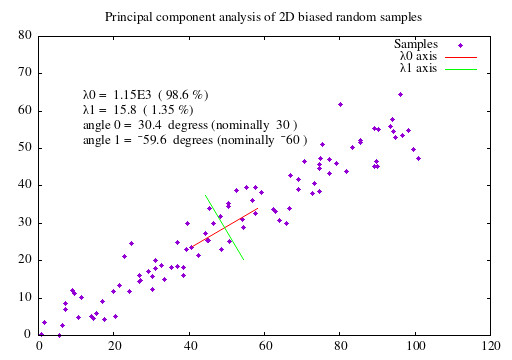
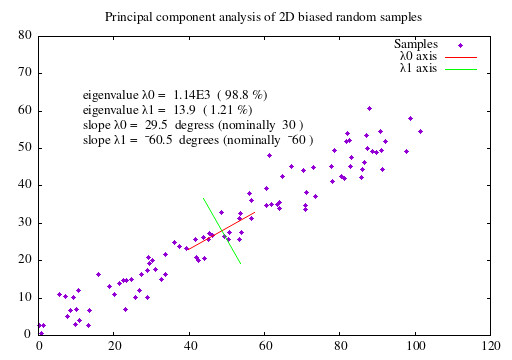
update

diff --git a/README.md b/README.md
@@ -69,6 +69,27 @@ It's handy to create named lambdas for the mtx opertions.  The ones I use are:
 <li>print  ← {⍺ mtx['p'] ⍵}</li>
 </ul>
 
+cov and cross are both ambivalent, but there's no apparent way to create
+ambivalent lambdas, so I also use:
+
+<pre>
+z←l cross r
+→(0≠⎕nc 'l')/Dyadic
+z←mtx['c'] r
+→0
+Dyadic:
+z←l mtx['c'] r
+</pre>
+
+<pre>
+z←l cov r
+→(0≠⎕nc 'l')/Dyadic
+z←mtx['C'] r
+→0
+Dyadic:
+z←l mtx['C'] r
+</pre>
+
 ## Details
 
 ### Monadic
@@ -165,8 +186,8 @@ For vector or matrix arguments, returns a value of the same shape such that
 >norm 2 3⍴⍳6
 
 <pre>
-0.105 0.21  0.314
-0.419 0.524 0.629
+0     0.135 0.27
+0.405 0.539 0.674
 </pre>
 
 >+/,(norm 2 3⍴⍳6)*2
@@ -215,11 +236,11 @@ length.  The function returns a complex scalar value representing the angle
 between the vectors.  (Frankly, I have no idea what it means if the result has
 a non-zero imaginary component...)
 
->r2d (1 0) angle (1 1)
+>r2d 1 0 angle 1 1
 
 45.0
 
->r2d (1 0 0) angle 1 1 1
+>r2d 1 0 0 angle 1 1 1
 
 54.7
 
@@ -246,42 +267,6 @@ Returns a homogeneous matrix of the given translation and rotation.
  1     2      3     1
 </pre>
 
-### Ambivalent
-
-The direct invocation of these functions, mtx['c'] and mtx['C'] respectively,
-are ambivalent, but there's no way I could find to make named lambdas
-ambivalent.  Accordingly, I've suggested two lambdas for each of those
-functions:
-<br/>
-
-| lambda       |   function       |                     
-| :----------- | :--------------: |
-| crossd       | ⍺ mtx['c'] ⍵ |  
-| crossm       | &nbsp; mtx['c'] ⍵ | 
-| covd         | ⍺ mtx['C'] ⍵ |  
-| crovm        | &nbsp; mtx['C'] ⍵ |
-
-Or, alternatively:
-
-<pre>
-z←l cross r
-→(0≠⎕nc 'l')/Dyadic
-z←mtx['c'] r
-→0
-Dyadic:
-z←l mtx['c'] r
-</pre>
-
-<pre>
-z←l cov r
-→(0≠⎕nc 'l')/Dyadic
-z←mtx['C'] r
-→0
-Dyadic:
-z←l mtx['C'] r
-</pre>
-
-
 #### Cross product
 
 In dynadic form, both arguments must be rank 1 real or complex vectors and
@@ -297,7 +282,7 @@ shapes [2 3] or [6 7].  mtx, however, doesn't check this and will happily
 give you a result in any dimensionality and leave it your imagination what
 it may mean.
 
->(1 2 3) crossd 4 5 6
+>1 2 3 crossd 4 5 6
 
 ¯3 6 ¯3
 
@@ -374,12 +359,12 @@ sample vectors:
 </pre>
 
 A typical graphical example using a two-variable system of 100 randomised
-samples each results in eigenvalues of [1030.44j0 17.6173j0] and eigenvectors
+samples each results in eigenvalues of [1142.1j0 13.9427j0] and eigenvectors
 of:
 
 <pre>
-   0.902754    0.430156 
-  -0.430156    0.902754
+   0.870314    0.492497 
+  -0.492497    0.870314
 </pre>
 
 as represented in:
@@ -388,7 +373,7 @@ as represented in:
 
 Note that
 
->r2d (0.902754 0.430156) angle (¯0.430156 0.902754)
+>r2d (0.870314    0.492497) angle (¯0.492497    0.870314)
 
 90
 
@@ -409,52 +394,41 @@ xa←(+/xb)÷⍴xb
 ya←(+/yb)÷⍴yb
 av←xa,ya
 d←2 c⍴xb,yb
-x←(⍉2 c⍴d) print 'pca.data'
+⊣(⍉2 c⍴d) print 'pca.data'
 co←covm d
 el←eval co
 ec←20×evec co
 
-x←'eigenvectors' print 'pcaeigensystem.txt'
-x←(ec÷20) print '>pcaeigensystem.txt'
-x←'eigenvalues' print '>pcaeigensystem.txt'
-x←el print '>pcaeigensystem.txt'
+⊣'eigenvectors' print 'pcaeigensystem.txt'
+⊣(ec÷20) print '>pcaeigensystem.txt'
+⊣'eigenvalues' print '>pcaeigensystem.txt'
+⊣el print '>pcaeigensystem.txt'
 
 xa← 100×(1↑el)÷+/el
 xb← 100×(¯1↑el)÷+/el
 
+m0←atand ÷/⌽1 2↑ec
+m1←atand ÷/⌽¯1 2↑ec
+
 h←'w' ⎕fio[3] 'pcalabels.gp'   ⍝ open
 
-s←⍕'set label "λ0 = ', (1↑el), ' (', xa, '%)" at graph .1,.8'
-x←'%s' s ⎕fio[22] h  ⍝ fwrite
-x←⎕fio[16] h ⍝ flush
-x←10⎕fio[42] h     ⍝ newline
-⍝x←⎕fio[16] h ⍝ flush
+s←⍕"set label \"eigenvalue λ0 = ", (1↑el), " (", xa, "%)\" at graph .1,.8\n"
+⊣'%s' s ⎕fio[22] h  ⍝ fwrite
 
-s←⍕'set label "λ1 = ', (¯1↑el), ' (', xb, '%)" at graph .1,.75'
-x←'%s' s ⎕fio[22] h  ⍝ fwrite
-x←⎕fio[16] h ⍝ flush
-x←10⎕fio[42] h     ⍝ newline
-⍝x←⎕fio[16] h ⍝ flush
+s←⍕"set label \"eigenvalue λ1 = ", (¯1↑el), " (", xb, "%)\" at graph .1,.75\n"
+⊣'%s' s ⎕fio[22] h  ⍝ fwrite
 
-m0←atand ec[0;1]÷ec[0;0]
-m1←atand ec[1;1]÷ec[1;0]
+s←⍕"set label \"slope λ0 = ", m0, " degress (nominally ", a, ")\" at graph .1,.7\n"
+⊣'%s' s ⎕fio[22] h  ⍝ fwrite
 
-s←⍕'set label "angle 0 = ', m0, ' degress (nominally ', a, ')" at graph .1,.7'
-x←'%s' s ⎕fio[22] h  ⍝ fwrite
-x←⎕fio[16] h ⍝ flush
-x←10⎕fio[42] h     ⍝ newline
+s←⍕"set label \"slope λ1 = ", m1, " degrees (nominally ", (a-90), ")\" at graph .1,.65\n"
+⊣'%s' s ⎕fio[22] h  ⍝ fwrite
 
-s←⍕'set label "angle 1 = ', m1, ' degrees (nominally ', (a-90), ')" at graph .1,.65'
-x←'%s' s ⎕fio[22] h  ⍝ fwrite
-x←⎕fio[16] h ⍝ flush
-x←10⎕fio[42] h     ⍝ newline
-
-x←⎕fio[4] h
+⊣⎕fio[4] h
 
 
-x←(2 2⍴(av-(ec[0;])÷2),av+(ec[0;])÷2) print 'pcae1.data'
-x←(2 2⍴(av-(ec[1;])÷2),av+(ec[1;])÷2) print 'pcae2.data'
-
+⊣(2 2⍴(av-(,1 2↑ec)÷2),av+(,1 2↑ec)÷2) print 'pcae1.data'
+⊣(2 2⍴(av-(,¯1 2↑ec)÷2),av+(,¯1 2↑ec)÷2) print 'pcae2.data'
 
 </pre>
 ---
